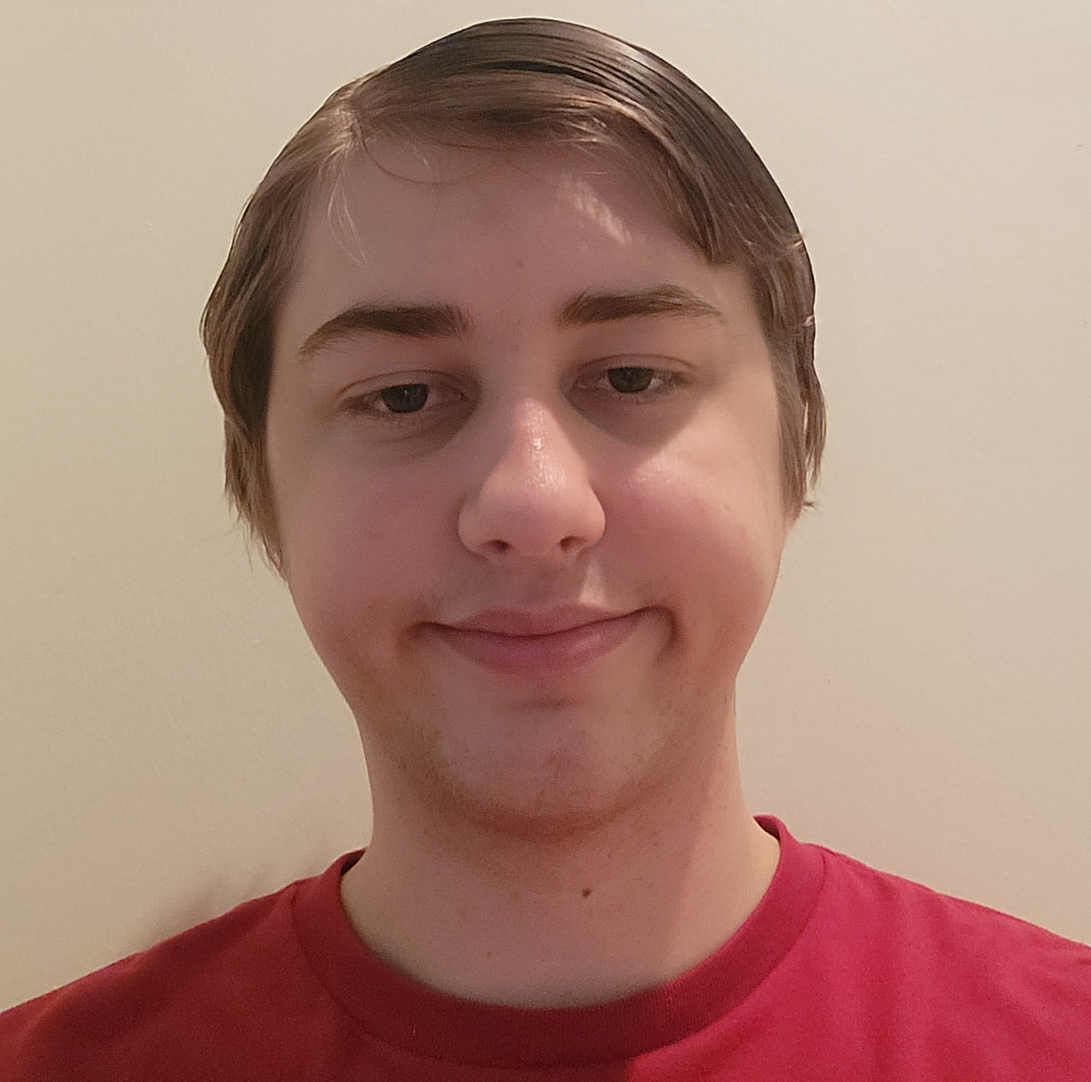
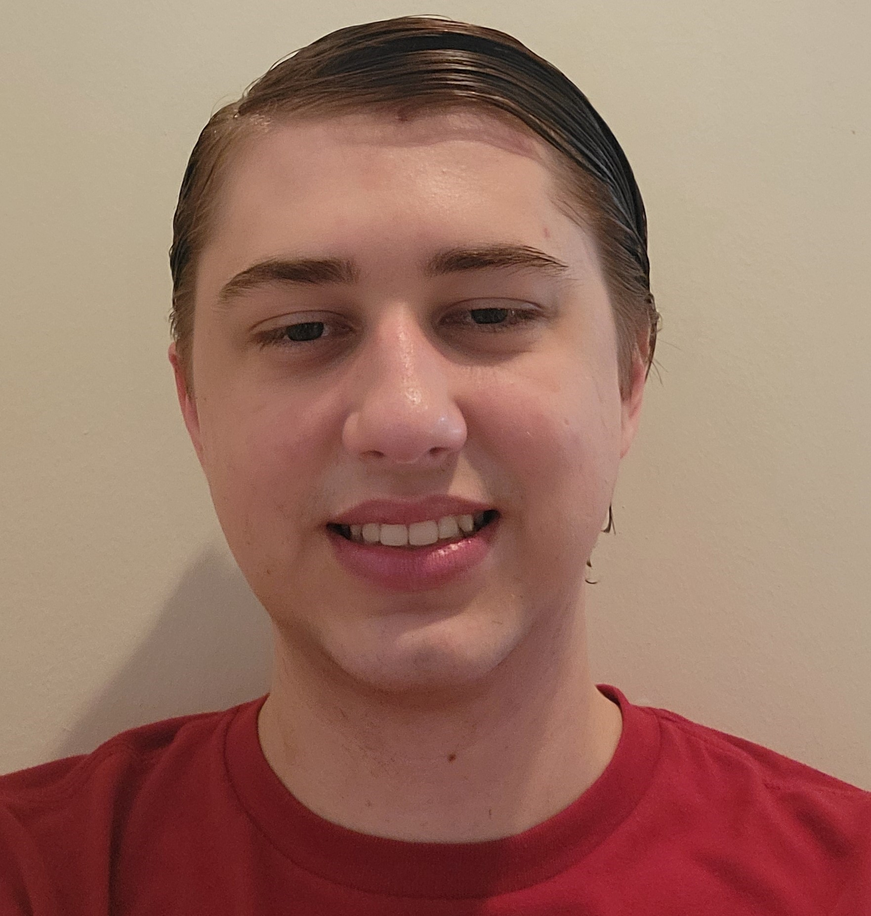
changed out the profile image and added a new styling for even smaller screens.

diff --git a/assets/css/style.css b/assets/css/style.css
@@ -325,7 +325,7 @@ find info on how to apply a hue over an image.  Also credited in the README file
   redability*/
   @media screen and (max-width: 700px) {
     body {
-        font-size: 15px;
+        font-size: 14px;
     }
 
     .profile-image {
@@ -368,3 +368,9 @@ find info on how to apply a hue over an image.  Also credited in the README file
         flex: 1 1 100%;
     }
   }
+
+  @media screen and (max-width: 475px) {
+    body {
+        font-size: 12px;
+    }
+}
